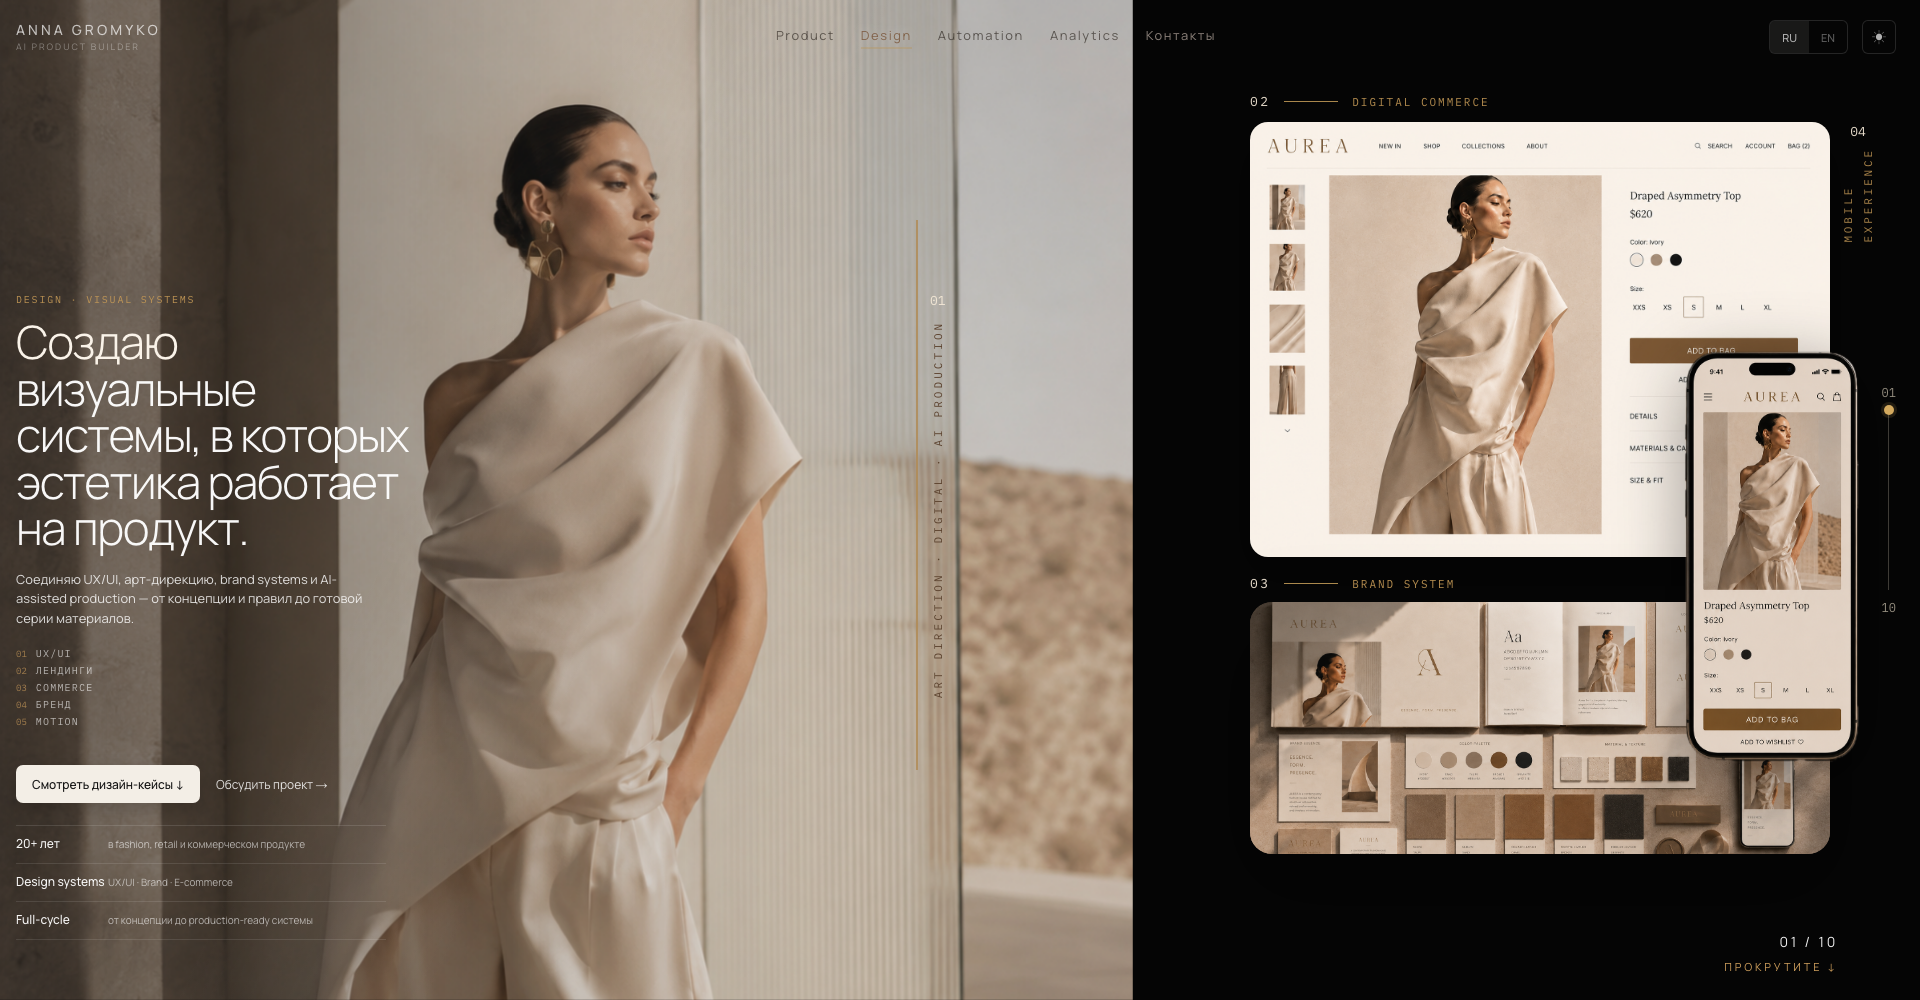
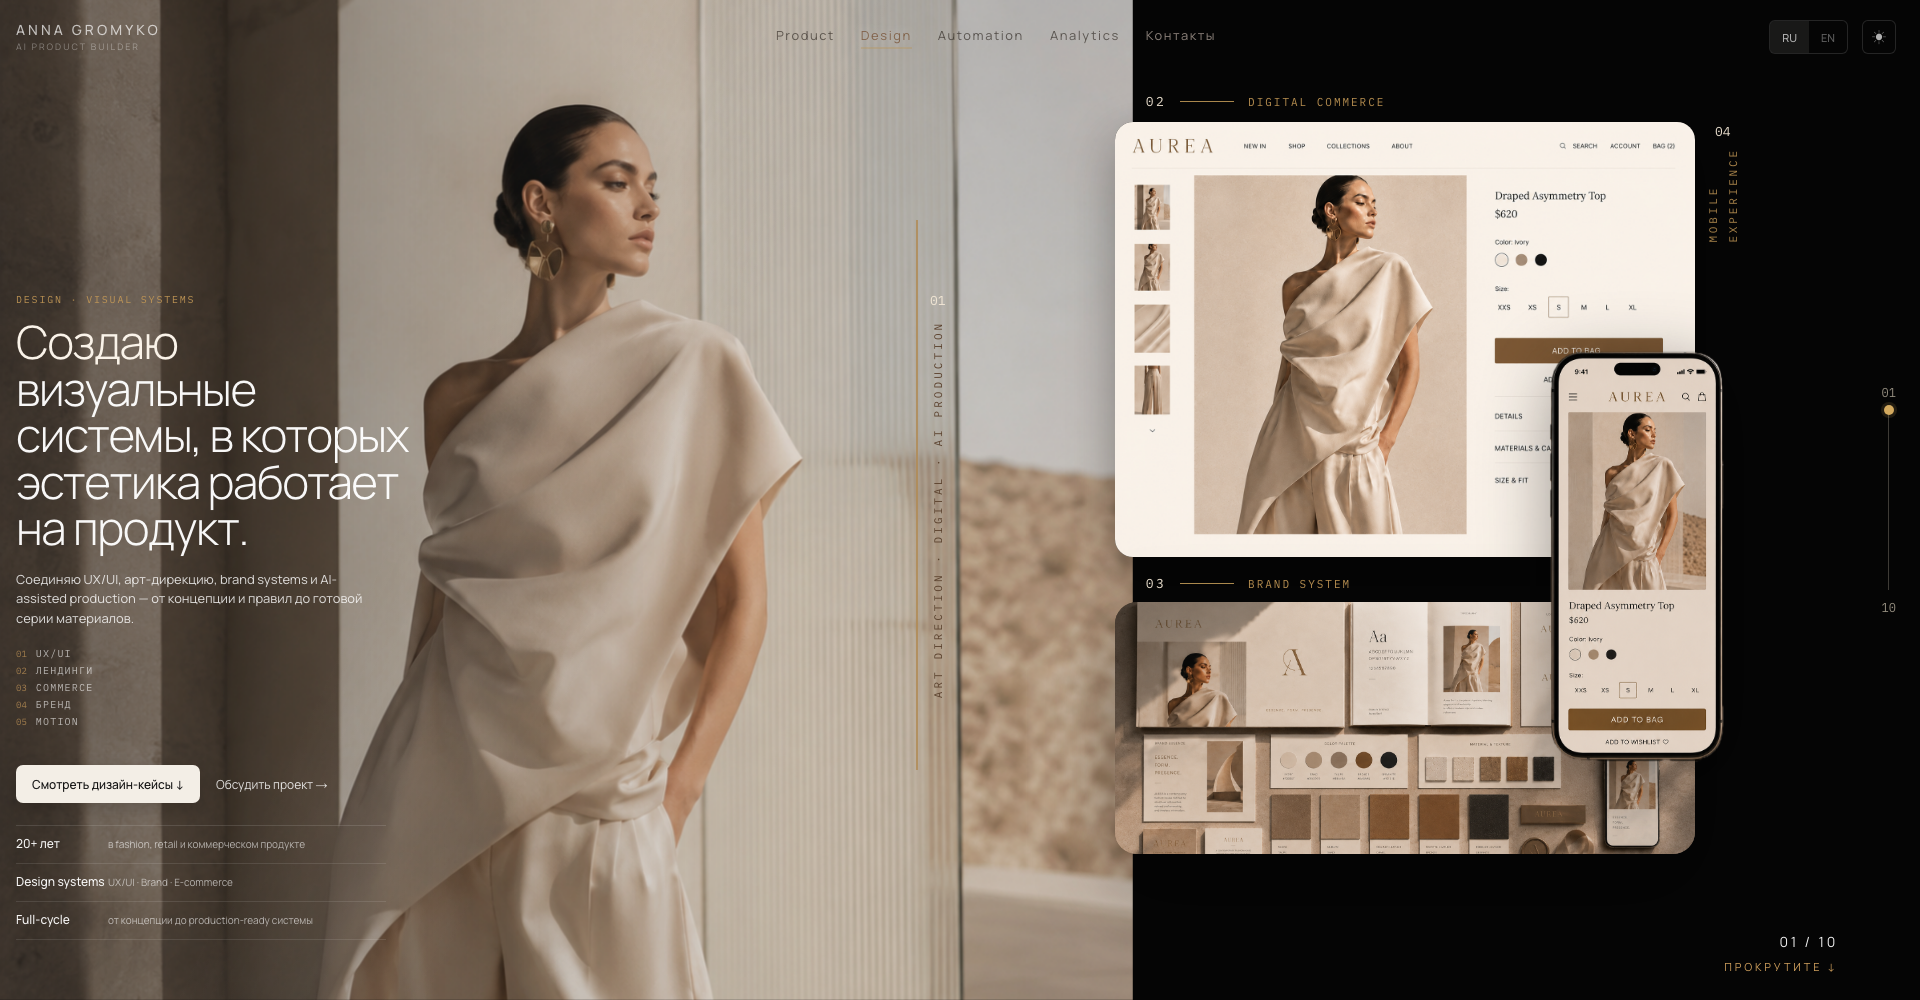
fix(design): anchor hero labels on dark field

Changed region(s): [[0.5625, 0.093, 0.9688, 0.868]]

diff --git a/e2e/design-approved-visual-polish.spec.ts b/e2e/design-approved-visual-polish.spec.ts
@@ -202,6 +202,7 @@ test('hero header and artifact anchors remain aligned across the viewport matrix
         phone: rect('.design-approved-hero-mobile'),
         mobileLabel: rect('.design-approved-hero-mobile-label'),
         commerceCard: rect('.design-approved-hero-commerce__card'),
+        commerceLabel: rect('.design-approved-hero-commerce > .design-approved-hero-stack-label'),
         brandLabelBox: rect('.design-approved-hero-brand .design-approved-hero-stack-label'),
         brandCard: rect('.design-approved-hero-brand__card'),
         brandImage: rect('.design-approved-hero-brand__card img'),
@@ -227,6 +228,7 @@ test('hero header and artifact anchors remain aligned across the viewport matrix
     expect(geometry.phone).not.toBeNull()
     expect(geometry.mobileLabel).not.toBeNull()
     expect(geometry.commerceCard).not.toBeNull()
+    expect(geometry.commerceLabel).not.toBeNull()
     expect(geometry.brandLabelBox).not.toBeNull()
     expect(geometry.brandCard).not.toBeNull()
     expect(geometry.brandImage).not.toBeNull()
@@ -234,12 +236,16 @@ test('hero header and artifact anchors remain aligned across the viewport matrix
     if (!geometry.scene || !geometry.brandmark || !geometry.eyebrow || !geometry.analytics
       || !geometry.contact || !geometry.controls || !geometry.rail || !geometry.scrollCue || !geometry.stack
       || !geometry.phone || !geometry.mobileLabel || !geometry.commerceCard
-      || !geometry.brandLabelBox || !geometry.brandCard || !geometry.brandImage || !geometry.brandLabel) continue
+      || !geometry.commerceLabel || !geometry.brandLabelBox || !geometry.brandCard
+      || !geometry.brandImage || !geometry.brandLabel) continue
 
     expect(Math.abs(geometry.brandmark.left - geometry.eyebrow.left)).toBeLessThanOrEqual(.5)
     expect(geometry.analytics.right).toBeLessThanOrEqual(geometry.scene.right - 12)
     expect(geometry.contact.left).toBeGreaterThanOrEqual(geometry.scene.right + 12)
+    expect(Math.abs(geometry.commerceLabel.left - geometry.contact.left)).toBeLessThanOrEqual(.5)
+    expect(Math.abs(geometry.brandLabelBox.left - geometry.contact.left)).toBeLessThanOrEqual(.5)
     expect(Math.abs(geometry.controls.right - geometry.rail.right)).toBeLessThanOrEqual(.5)
+    expect(geometry.stack.left).toBeLessThanOrEqual(geometry.scene.right - 12)
     expect(geometry.phone.right - geometry.stack.right).toBeCloseTo(112, 0)
     expect(geometry.phone.top).toBeGreaterThan(geometry.stack.top + 100)
     expect(geometry.phone.top).toBeGreaterThanOrEqual(geometry.mobileLabel.bottom + 4)

diff --git a/src/features/design-approved/DesignApprovedPolish.css b/src/features/design-approved/DesignApprovedPolish.css
@@ -186,6 +186,13 @@ html[data-page='design'] :is(
     top: var(--design-hero-commerce-top);
   }
 
+  .design-approved-page .design-approved-hero-commerce > .design-approved-hero-stack-label,
+  .design-approved-page .design-approved-hero-brand > .design-approved-hero-stack-label {
+    position: relative;
+    left: calc(100% - 41vw + 103px);
+    width: max-content;
+  }
+
   .design-approved-page .design-approved-hero-brand {
     top: calc(
       var(--design-hero-commerce-top)
@@ -225,6 +232,15 @@ html[data-page='design'] :is(
     left: 12px;
     right: calc(clamp(10px, 1.25vw, 24px) + 18px);
   }
+
+  .design-approved-page .design-approved-hero-commerce > .design-approved-hero-stack-label,
+  .design-approved-page .design-approved-hero-brand > .design-approved-hero-stack-label {
+    left: calc(100% - 41vw + 118px);
+  }
+
+  .design-approved-page .design-approved-hero-brand > .design-approved-hero-stack-label {
+    left: calc(100% - 41vw + 116px);
+  }
 }
 
 @media (max-width: 1023px) {
@@ -242,6 +258,8 @@ html[data-page='design'] :is(
   .design-approved-page .design-approved-hero-stack {
     width: min(44vw, clamp(475px, 58vh, 650px));
     height: calc(100% - 90px);
+    right: auto;
+    left: calc(59vw - 18px);
     box-sizing: border-box;
     display: grid;
     grid-template-rows: auto 28vh;
@@ -266,6 +284,11 @@ html[data-page='design'] :is(
 
   .design-approved-page .design-approved-hero-brand .design-approved-hero-stack-label--end {
     justify-content: flex-start;
+  }
+
+  .design-approved-page .design-approved-hero-commerce > .design-approved-hero-stack-label,
+  .design-approved-page .design-approved-hero-brand > .design-approved-hero-stack-label {
+    left: 31px;
   }
 
   .design-approved-page .design-approved-hero-mobile {
